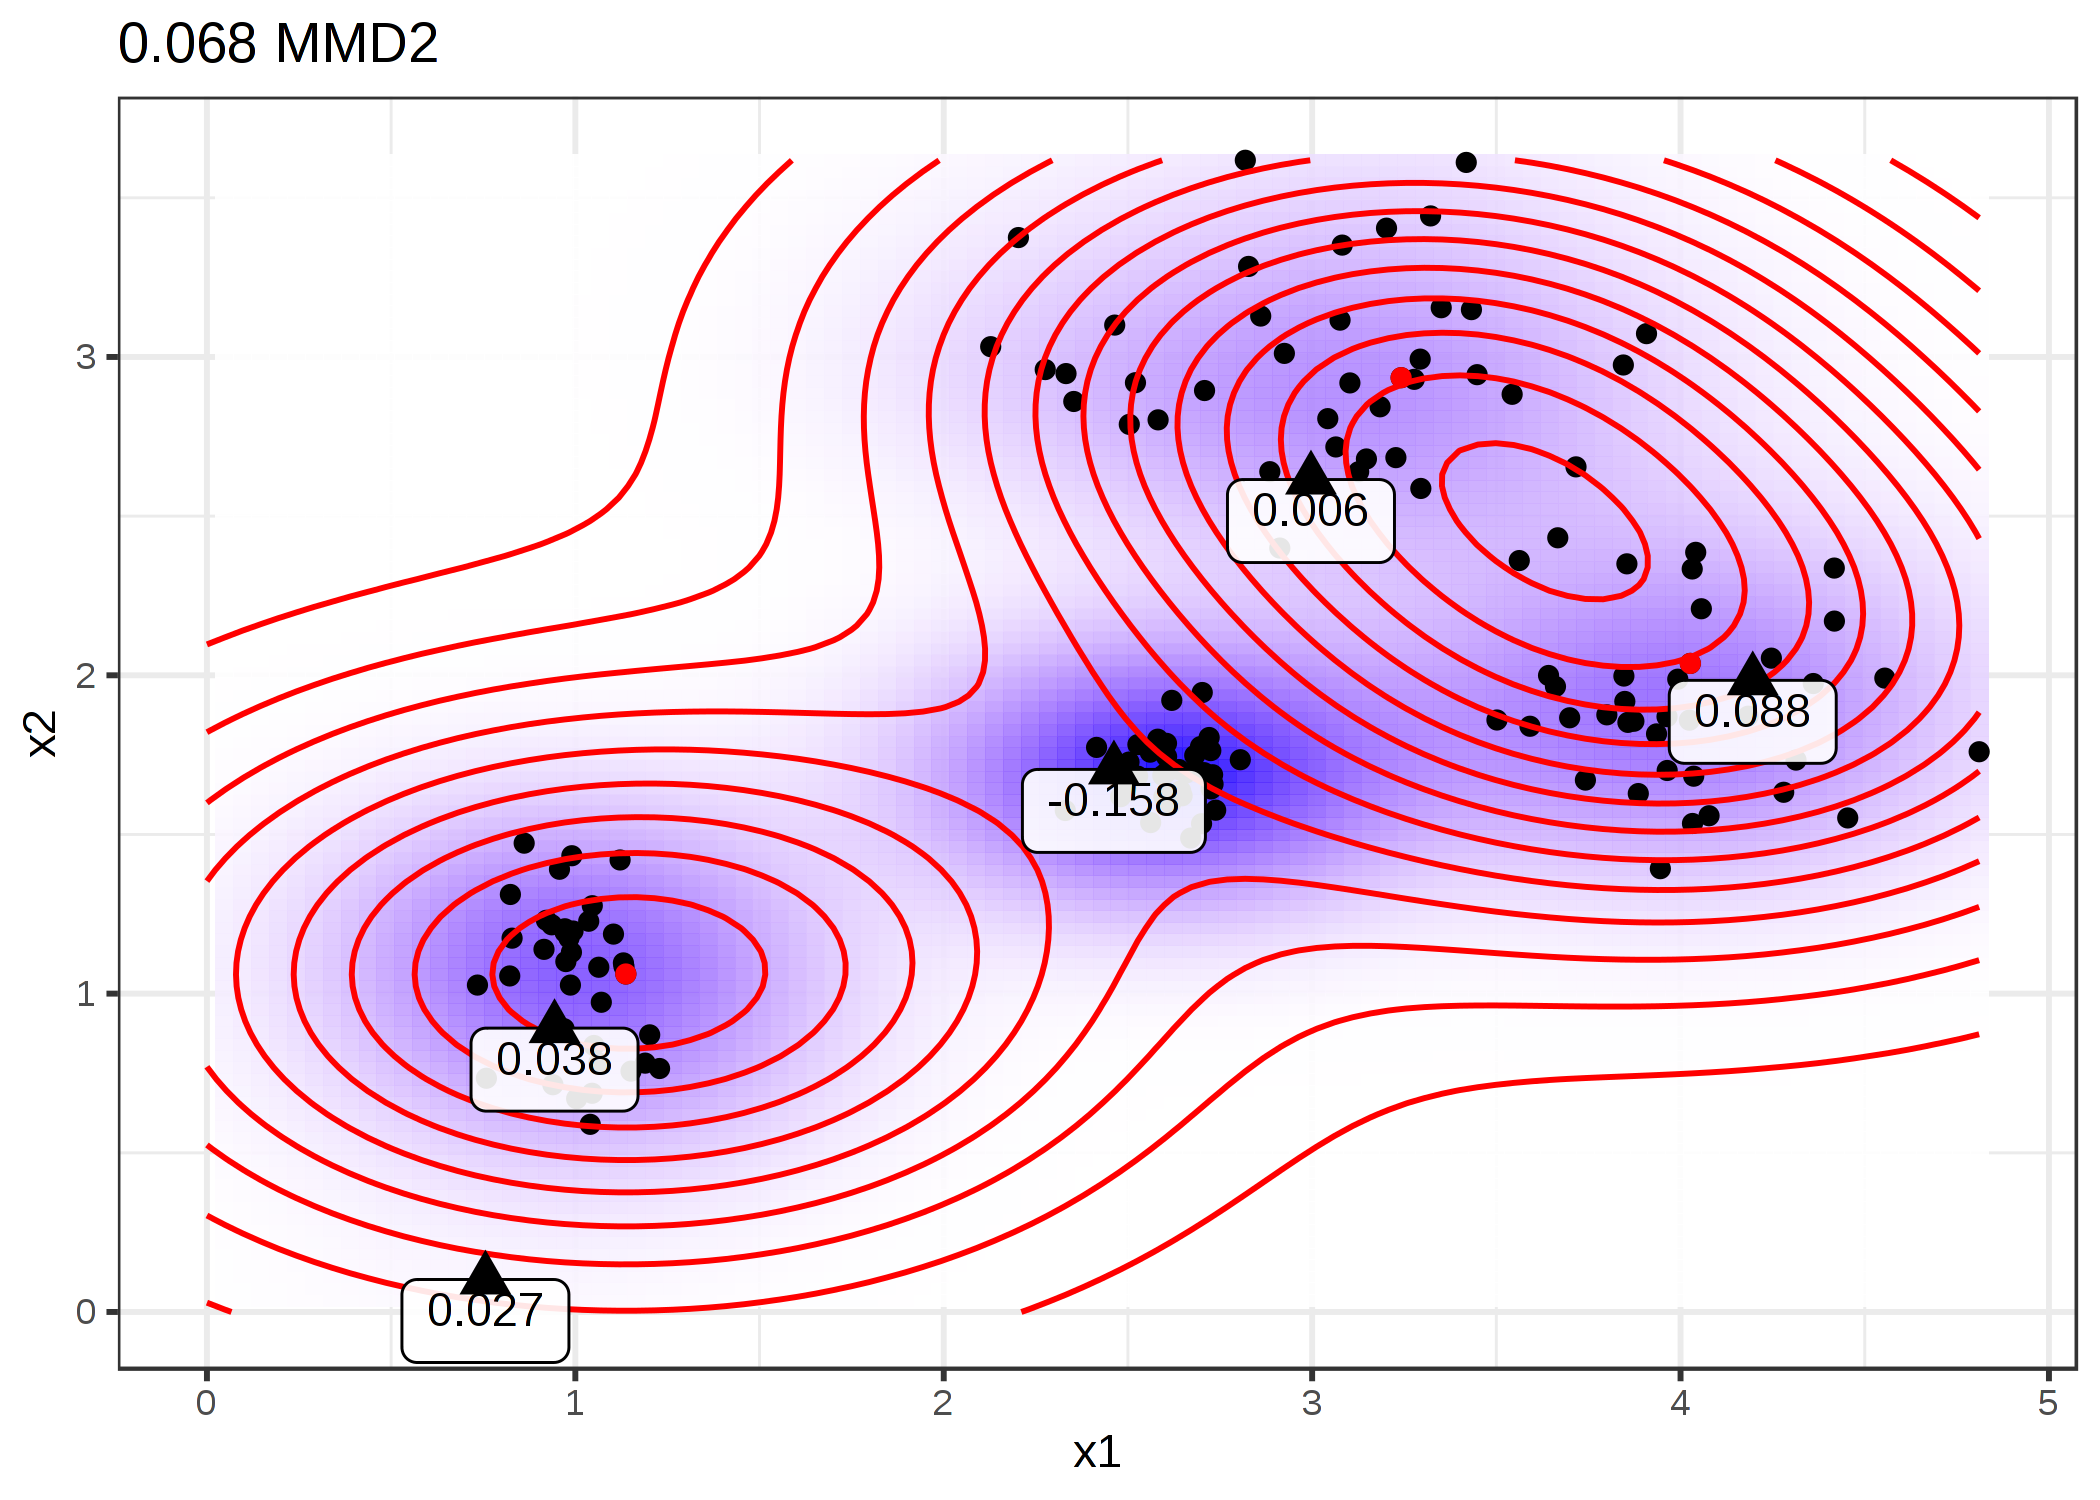
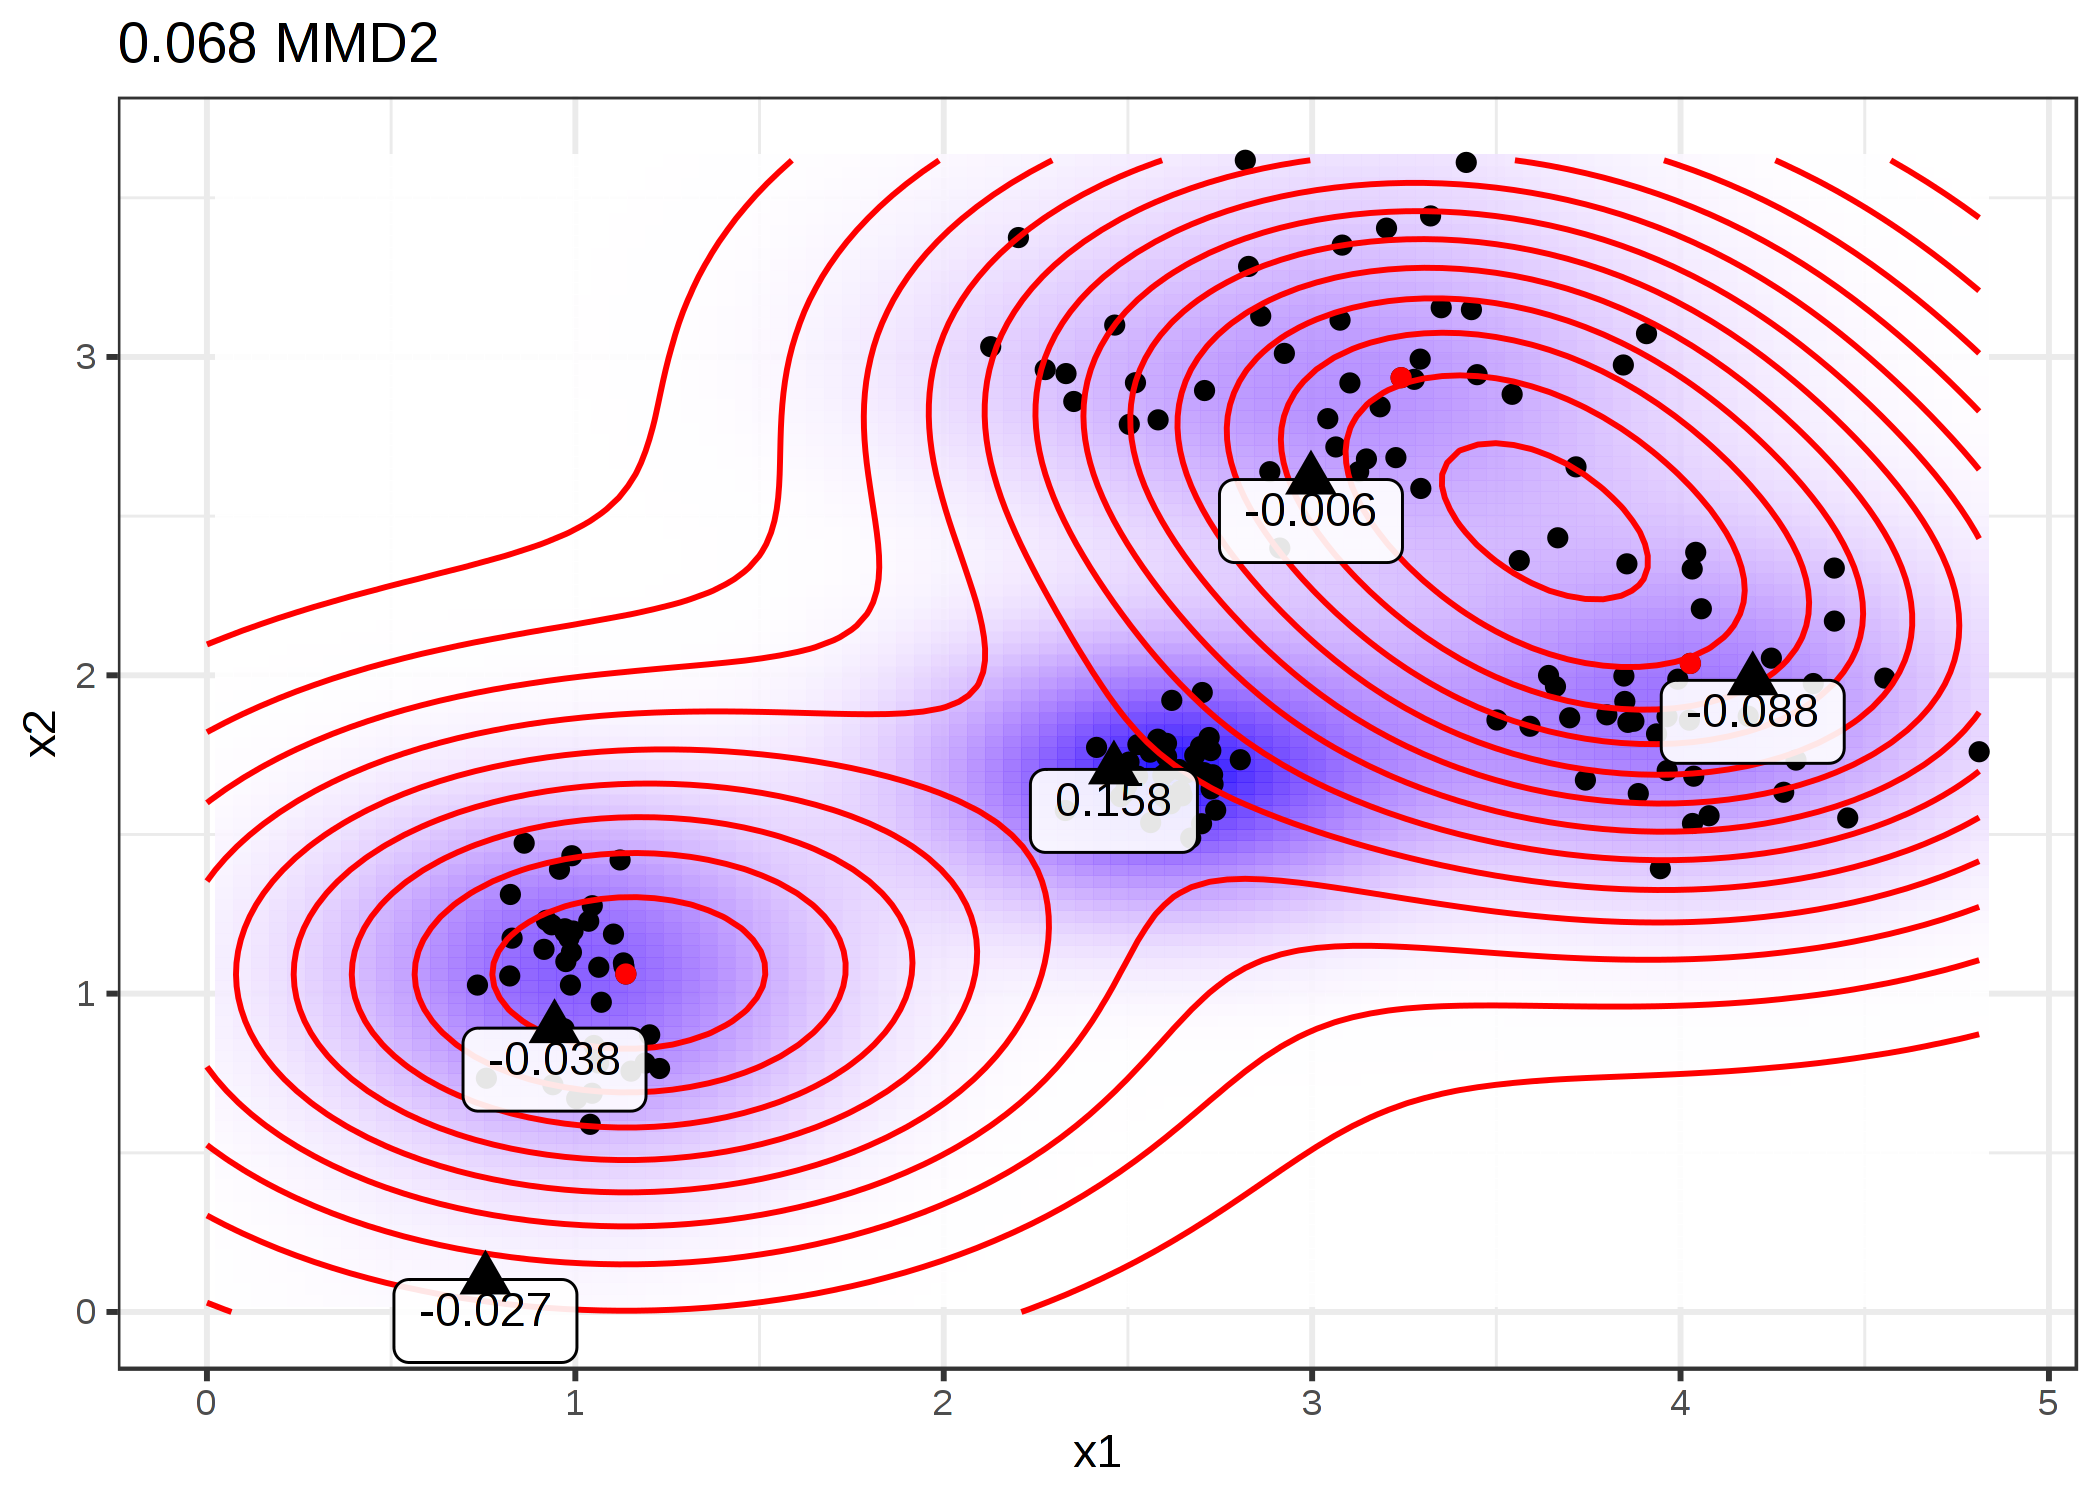
Update book (travis build 1351)

diff --git a/proto.html b/proto.html
@@ -24,7 +24,7 @@
 <meta name="author" content="Christoph Molnar" />
 
 
-<meta name="date" content="2019-09-01" />
+<meta name="date" content="2019-09-07" />
 
   <meta name="viewport" content="width=device-width, initial-scale=1" />
   <meta name="apple-mobile-web-app-capable" content="yes" />
@@ -387,8 +387,8 @@ FIGURE 6.10: The squared maximum mean discrepancy measure (MMD2) for a dataset w
 </ul>
 <p>The remaining ingredient for finding criticisms is the witness function, which tells us how much two density estimates differ at a particular point. It can be estimated using:</p>
 <p><span class="math display">\[witness(x)=\frac{1}{n}\sum_{i=1}^nk(x,x_i)-\frac{1}{m}\sum_{j=1}^mk(x,z_j)\]</span></p>
-<p>For two datasets (with the same features), the witness function gives you the means of evaluating in which empirical distribution the point x fits better. To find criticisms, we look for extreme values of the witness function in both negative and positive directions. The first term in the witness function is the average proximity between point x and the prototypes, and, respectively, the second term is the average proximity between point x and the data. If the witness function for a point x is close to zero, the density function of the data and the prototypes are close together, which means that the distribution of prototypes resembles the distribution of the data at point x. A positive witness function at point x means that the prototype distribution overestimates the data distribution (for example if we select a prototype but there are only few data points nearby); a negative witness function at point x means that the prototype distribution underestimates the data distribution (for example if there are many data points around x but we have not selected any prototypes nearby).</p>
-<p>To give you more intuition, let us reuse the prototypes from the plot beforehand with the lowest MMD2 and display the witness function for a few manually selected points. The labels in the following plot show the value of the witness function for various points marked as squares. Only the point in the middle has a high absolute value and is therefore a good candidate for a criticism.</p>
+<p>For two datasets (with the same features), the witness function gives you the means of evaluating in which empirical distribution the point x fits better. To find criticisms, we look for extreme values of the witness function in both negative and positive directions. The first term in the witness function is the average proximity between point x and the data, and, respectively, the second term is the average proximity between point x and the prototypes. If the witness function for a point x is close to zero, the density function of the data and the prototypes are close together, which means that the distribution of prototypes resembles the distribution of the data at point x. A negative witness function at point x means that the prototype distribution overestimates the data distribution (for example if we select a prototype but there are only few data points nearby); a positive witness function at point x means that the prototype distribution underestimates the data distribution (for example if there are many data points around x but we have not selected any prototypes nearby).</p>
+<p>To give you more intuition, let us reuse the prototypes from the plot beforehand with the lowest MMD2 and display the witness function for a few manually selected points. The labels in the following plot show the value of the witness function for various points marked as triangles. Only the point in the middle has a high absolute value and is therefore a good candidate for a criticism.</p>
 <div class="figure"><span id="fig:witness"></span>
 <img src="images/witness-1.png" alt="Evaluations of the witness function at different points." width="1050" />
 <p class="caption">

diff --git a/index.html b/index.html
@@ -24,7 +24,7 @@
 <meta name="author" content="Christoph Molnar" />
 
 
-<meta name="date" content="2019-09-01" />
+<meta name="date" content="2019-09-07" />
 
   <meta name="viewport" content="width=device-width, initial-scale=1" />
   <meta name="apple-mobile-web-app-capable" content="yes" />
@@ -345,7 +345,7 @@ window.cookieconsent.initialise({
 <h1 class="title">Interpretable Machine Learning</h1>
 <h2 class="subtitle"><em>A Guide for Making Black Box Models Explainable.</em></h2>
 <p class="author"><em>Christoph Molnar</em></p>
-<p class="date"><em>2019-09-01</em></p>
+<p class="date"><em>2019-09-07</em></p>
 </div>
 <div id="preface" class="section level1 unnumbered">
 <h1>Preface</h1>

diff --git a/acknowledgements.html b/acknowledgements.html
@@ -24,7 +24,7 @@
 <meta name="author" content="Christoph Molnar" />
 
 
-<meta name="date" content="2019-09-01" />
+<meta name="date" content="2019-09-07" />
 
   <meta name="viewport" content="width=device-width, initial-scale=1" />
   <meta name="apple-mobile-web-app-capable" content="yes" />

diff --git a/adversarial.html b/adversarial.html
@@ -24,7 +24,7 @@
 <meta name="author" content="Christoph Molnar" />
 
 
-<meta name="date" content="2019-09-01" />
+<meta name="date" content="2019-09-07" />
 
   <meta name="viewport" content="width=device-width, initial-scale=1" />
   <meta name="apple-mobile-web-app-capable" content="yes" />

diff --git a/agnostic.html b/agnostic.html
@@ -24,7 +24,7 @@
 <meta name="author" content="Christoph Molnar" />
 
 
-<meta name="date" content="2019-09-01" />
+<meta name="date" content="2019-09-07" />
 
   <meta name="viewport" content="width=device-width, initial-scale=1" />
   <meta name="apple-mobile-web-app-capable" content="yes" />

diff --git a/ale.html b/ale.html
@@ -24,7 +24,7 @@
 <meta name="author" content="Christoph Molnar" />
 
 
-<meta name="date" content="2019-09-01" />
+<meta name="date" content="2019-09-07" />
 
   <meta name="viewport" content="width=device-width, initial-scale=1" />
   <meta name="apple-mobile-web-app-capable" content="yes" />

diff --git a/anchors.html b/anchors.html
@@ -24,7 +24,7 @@
 <meta name="author" content="Christoph Molnar" />
 
 
-<meta name="date" content="2019-09-01" />
+<meta name="date" content="2019-09-07" />
 
   <meta name="viewport" content="width=device-width, initial-scale=1" />
   <meta name="apple-mobile-web-app-capable" content="yes" />

diff --git a/bike-data.html b/bike-data.html
@@ -24,7 +24,7 @@
 <meta name="author" content="Christoph Molnar" />
 
 
-<meta name="date" content="2019-09-01" />
+<meta name="date" content="2019-09-07" />
 
   <meta name="viewport" content="width=device-width, initial-scale=1" />
   <meta name="apple-mobile-web-app-capable" content="yes" />

diff --git a/cervical.html b/cervical.html
@@ -24,7 +24,7 @@
 <meta name="author" content="Christoph Molnar" />
 
 
-<meta name="date" content="2019-09-01" />
+<meta name="date" content="2019-09-07" />
 
   <meta name="viewport" content="width=device-width, initial-scale=1" />
   <meta name="apple-mobile-web-app-capable" content="yes" />

diff --git a/cite.html b/cite.html
@@ -24,7 +24,7 @@
 <meta name="author" content="Christoph Molnar" />
 
 
-<meta name="date" content="2019-09-01" />
+<meta name="date" content="2019-09-07" />
 
   <meta name="viewport" content="width=device-width, initial-scale=1" />
   <meta name="apple-mobile-web-app-capable" content="yes" />

diff --git a/cnn-features.html b/cnn-features.html
@@ -24,7 +24,7 @@
 <meta name="author" content="Christoph Molnar" />
 
 
-<meta name="date" content="2019-09-01" />
+<meta name="date" content="2019-09-07" />
 
   <meta name="viewport" content="width=device-width, initial-scale=1" />
   <meta name="apple-mobile-web-app-capable" content="yes" />

diff --git a/contribute.html b/contribute.html
@@ -24,7 +24,7 @@
 <meta name="author" content="Christoph Molnar" />
 
 
-<meta name="date" content="2019-09-01" />
+<meta name="date" content="2019-09-07" />
 
   <meta name="viewport" content="width=device-width, initial-scale=1" />
   <meta name="apple-mobile-web-app-capable" content="yes" />
